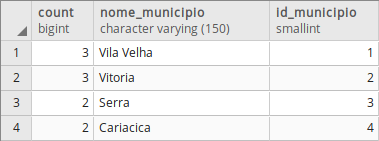
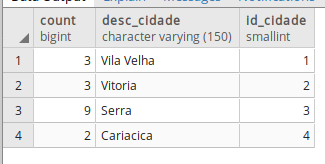
update readme.md e prints

Changed region(s): [[0.0, 0.0, 1.0, 1.0], [0.0923, 0.2837, 0.1231, 0.3121]]

diff --git a/README.md b/README.md
@@ -226,10 +226,10 @@ O sistema proposto conterá as informacões aqui detalhadas. Dos usuários serã
    ![img](images/9.2/9.2.2.JPG)
    
    	SELECT * FROM horario WHERE hora_saida > '07:00:00' AND hora_saida < '07:50:00';
-   ![img](images/9.2/9.2.3.JPG)
+   ![img](images/9.2/9.2.3.png)
    
    	SELECT * FROM logradouro WHERE desc_tipo = 'Rua';
-   ![img](images/9.2/9.2.4.JPG)
+   ![img](images/9.2/9.2.4.png)
 
 #### 9.3	CONSULTAS QUE USAM OPERADORES LÓGICOS, ARITMÉTICOS E TABELAS OU CAMPOS RENOMEADOS (Mínimo 11)
    <b>a) Criar 5 consultas que envolvam os operadores lógicos AND, OR e Not </b><br>
@@ -255,7 +255,6 @@ O sistema proposto conterá as informacões aqui detalhadas. Dos usuários serã
 	FROM LOGRADOURO 
 	WHERE ((id_bairro = 4) 
 	OR (id_bairro = 7));
-
 ![img](images/9.3/9.3.4.png)
 
 	SELECT hora_saida, id_itinerario 
@@ -328,8 +327,8 @@ O sistema proposto conterá as informacões aqui detalhadas. Dos usuários serã
     
 	SELECT numero_linha 
 	FROM LINHA 
-	WHERE descricao_linha LIKE 'T.LARANJEIRAS%' 
-	OR descricao_linha LIKE '%T.ITAPARICA VIA T.CARAPINA%';
+	WHERE desc_linha LIKE 'T.LARANJEIRAS%' 
+	OR desc_linha LIKE '%T.ITAPARICA VIA T.CARAPINA%';
 ![img](images/9.4/9.4.a.1.png)<br>
 
 	SELECT titular,validade 
@@ -471,7 +470,7 @@ O sistema proposto conterá as informacões aqui detalhadas. Dos usuários serã
 	pagamento.data_pagamento AS "Data recarga", 
 	passagem.data AS "Data da passagem",
 	passagem.hora AS "Horario da passagem",
-	linha.descricao_linha AS "Linha",
+	linha.desc_linha AS "Linha",
 	horario.hora_saida,
 	tipo_horario.desc_horario AS "Tipo de horario",
 	itinerario.destino AS "Destino do onibus",
@@ -480,7 +479,7 @@ O sistema proposto conterá as informacões aqui detalhadas. Dos usuários serã
 	logradouro.desc_tipo AS "Itinerario - Tipo logradouro",
 	logradouro.desc_logradouro AS "Itinerario - Nome logradouro",
 	bairro.desc_bairro AS "Itinerario - Bairro", 
-	municipio.nome_municipio AS "Itinerario - Cidade"
+	cidade.desc_cidade AS "Itinerario - Cidade"
 	FROM USUARIO
 	INNER JOIN CARTAO
 	ON (usuario.numero_cartao = cartao.numero)
@@ -504,8 +503,8 @@ O sistema proposto conterá as informacões aqui detalhadas. Dos usuários serã
 	ON (ponto.id_logradouro = logradouro.id_logradouro)
 	INNER JOIN BAIRRO
 	ON (logradouro.id_bairro = bairro.id_bairro)
-	INNER JOIN MUNICIPIO
-	ON (bairro.id_cidade = municipio.id_municipio)
+	INNER JOIN CIDADE
+	ON (bairro.id_cidade = cidade.id_cidade)
 	WHERE passagem.hora = '12:30:00'
 	AND horario.hora_saida = '12:25:00'
 	AND ponto.id_ponto = 1;
@@ -622,6 +621,7 @@ O sistema proposto conterá as informacões aqui detalhadas. Dos usuários serã
 ![img](images/9.7/6.png)<br>
    
 #### 9.8	CONSULTAS COM LEFT E RIGHT JOIN (Mínimo 4)<br>
+
 	SELECT COUNT(bairro.id_bairro), 
 	cidade.desc_cidade, 
 	cidade.id_cidade
@@ -642,11 +642,11 @@ O sistema proposto conterá as informacões aqui detalhadas. Dos usuários serã
 ![img](images/9.8/9.8.2.png)<br>
 
 	SELECT COUNT(passagem.id_passagem) AS passagens_vendidas, 
-	linha.descricao_linha AS linha
+	linha.desc_linha AS linha
 	FROM PASSAGEM
 	LEFT JOIN LINHA
 	ON passagem.numero_linha = linha.numero_linha
-	GROUP BY linha.descricao_linha
+	GROUP BY linha.desc_linha
 	ORDER BY passagens_vendidas desc;
 ![img](images/9.8/9.8.3.png)<br>
 
@@ -680,21 +680,21 @@ O sistema proposto conterá as informacões aqui detalhadas. Dos usuários serã
 	SELECT * FROM valor_total_recebido;
 ![img](images/9.9/valor_total_recebido.PNG)
 
-	CREATE VIEW total_ruas_bairros_cidades_pontos AS(
-	SELECT COUNT(logradouro.id_logradouro) AS total_ruas,
-	COUNT(bairro.id_bairro) AS total_bairros,
-	COUNT(municipio.id_municipio) AS total_cidades,
-	COUNT(ponto.id_ponto) AS total_pontos
-	FROM LOGRADOURO
-	RIGHT JOIN BAIRRO
-	ON logradouro.id_bairro = bairro.id_bairro
-	RIGHT JOIN MUNICIPIO
-	ON bairro.id_cidade = municipio.id_municipio
-	INNER JOIN PONTO
-	ON ponto.id_logradouro = logradouro.id_logradouro);
-
-	SELECT * FROM total_ruas_bairros_cidades_pontos;
-![img](images/9.9/total_ruas_bairros_cidades_pontos.PNG)<br>
+	CREATE VIEW total_locais_com_pontos AS(
+	SELECT COUNT(DISTINCT ponto.id_ponto) AS total_pontos,
+	COUNT (DISTINCT logradouro.id_logradouro) AS total_ruas,
+	COUNT(DISTINCT bairro.id_bairro) AS total_bairros,
+	COUNT(DISTINCT cidade.id_cidade) AS total_cidades
+	FROM PONTO
+	INNER JOIN LOGRADOURO
+	ON (ponto.id_logradouro = logradouro.id_logradouro)
+	INNER JOIN BAIRRO
+	ON (logradouro.id_bairro = bairro.id_bairro)
+	INNER JOIN CIDADE
+	ON (bairro.id_cidade = cidade.id_cidade));
+ 
+	SELECT * FROM total_locais_com_pontos;
+![img](images/9.9/total_locais_com_pontos.png)<br>
 
 	CREATE VIEW usuarios_mes_valor AS(
 	SELECT usuario.nome,
@@ -745,7 +745,7 @@ O sistema proposto conterá as informacões aqui detalhadas. Dos usuários serã
 	ORDER BY nome;
 ![img](images/9.10/9.10_1.png)<br>
 
-	SELECT linha.numero_linha, descricao_linha, hora_saida, desc_terminal, desc_horario
+	SELECT linha.numero_linha, desc_linha, hora_saida, desc_terminal, desc_horario
 	FROM horario
 	INNER JOIN itinerario
 	ON horario.id_itinerario = itinerario.id_itinerario
